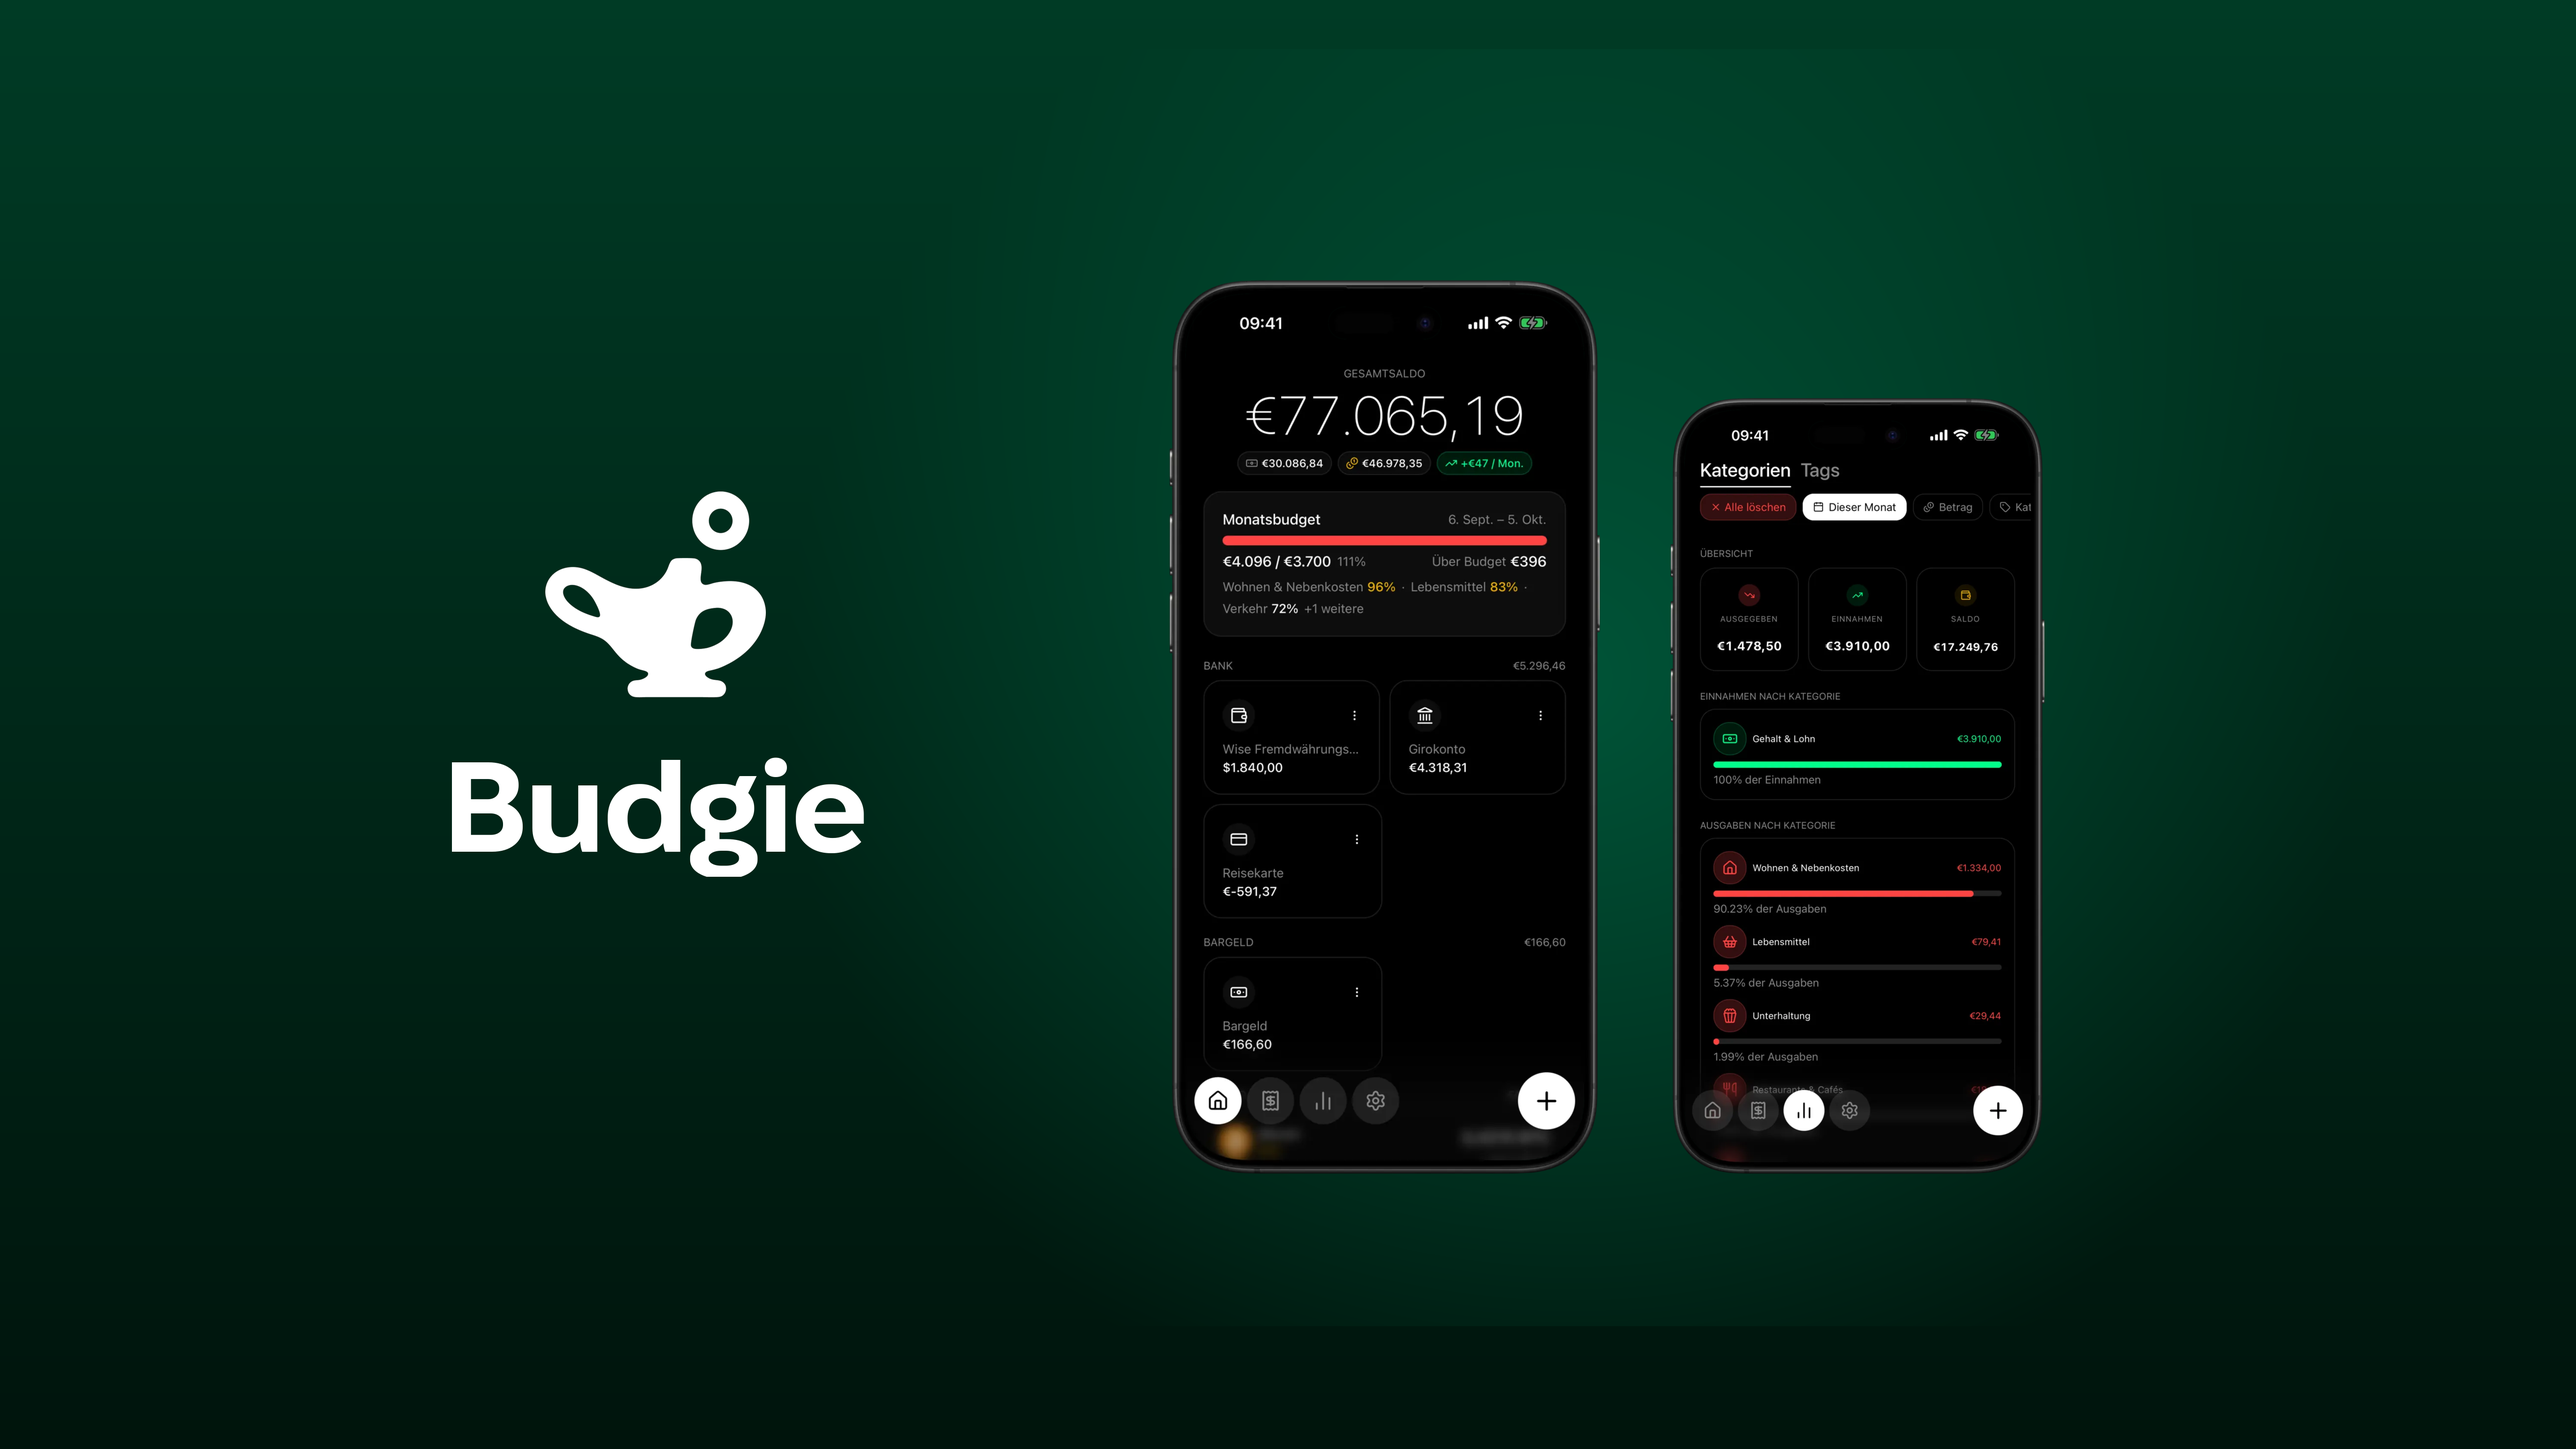
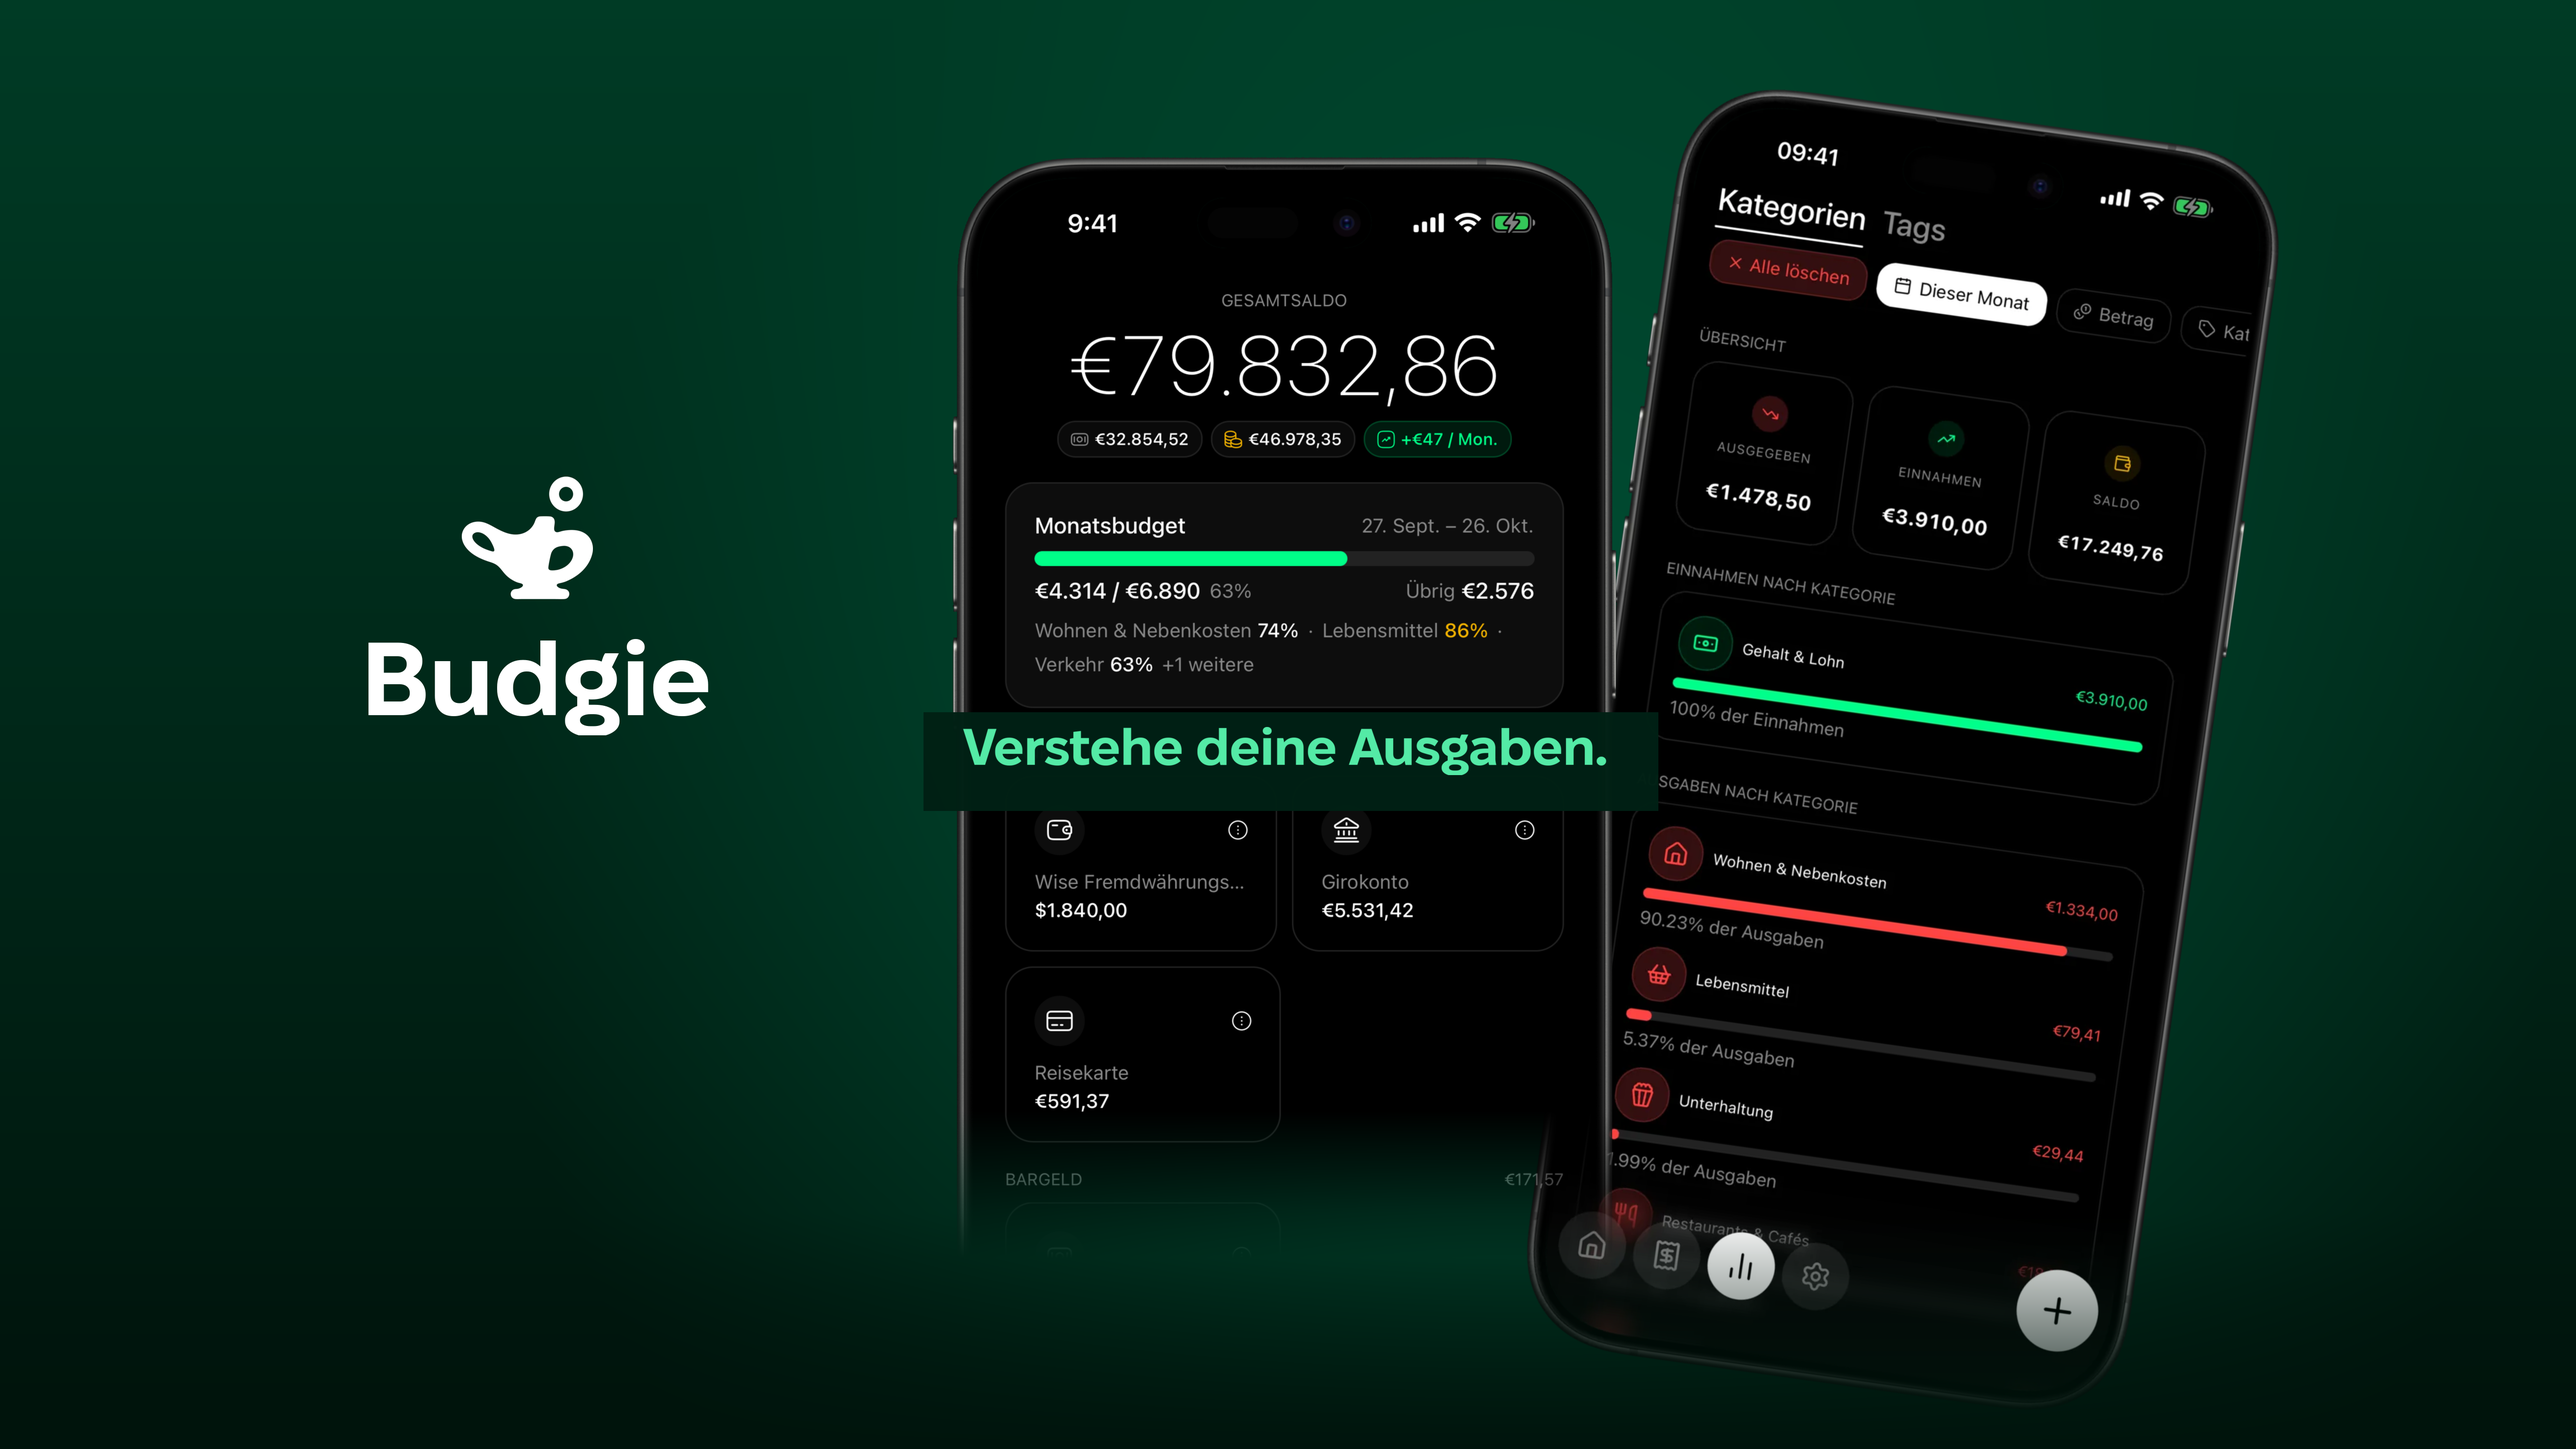
feat(app): header asset v2 with localized headline and healthy hero

diff --git a/packages/app/fastlane/screenshots/MARKETING.md b/packages/app/fastlane/screenshots/MARKETING.md
@@ -78,20 +78,80 @@ Outputs are committed in `marketing/headers/<asc-locale>/` for `en-US`, `de-DE`,
 - `header-universal-5244x2950.png`: usable for both Header and Search Results.
 - `header-3840x1646.png`: dedicated Header alternative; do not use it as Search Results art.
 
-The script uses committed localized, transparent, framed captures from
-`packages/landing/public/media/{net-worth-tracker,spending-analytics}/<app-locale>/dark/`.
-Those were produced with the existing `frame-device.sh` / mobile-ci framing system.
-It reuses the app icon mark, FixelDisplay-Bold, and the screenshot palette
-`#003B25 → #00140C`. No ASO captions are read or changed. The universal composition
-keeps its mark, wordmark and both phones in the central region; the wide export
-uses a center crop. The surrounding canvas allows placement cropping. Review the
-actual device/orientation crops in ASC's Preview tool before approval.
+### Header v2: localized benefits and healthy seed data
 
-Both exports are flattened 8-bit sRGB PNGs with no alpha. Apple's
-[creative specifications](https://developer.apple.com/help/app-store-connect/reference/app-information/creative-assets-specifications)
-accept these exact dimensions. Its [asset guidance](https://developer.apple.com/app-store/asset-best-practices/)
-calls for central focal content, readable artwork, localized text and consistent
-branding. This design adds only the brand wordmark; visible app UI is localized.
+The committed `compose-app-store-headers.sh` generates all ten files without a
+simulator, network access or frame downloads. It extracts the existing framed
+phone from `variants/dark/ios/<asc-locale>/01_iphone_home.png`, removing only the
+connected exterior green background. It never edits the captured UI or its
+numbers. These are fictional showcase fixtures: the English hero has a positive
+**$91,358.63** total balance, a green **62%** budget, and **$2,871 left**. German,
+Spanish and French show **63%**, and Ukrainian **59%**, all with positive balances
+and money remaining. A healthy capture already exists in every locale; no
+Maestro/seed change or macmini recapture is needed for these headers. Raw capture
+directories are absent in this checkout, so the committed screenshot variants
+are the reproducible source rather than untracked raw images.
+
+The secondary phone uses the localized, transparent framed analytics capture in
+`packages/landing/public/media/spending-analytics/<app-locale>/dark/`. Both frames
+come from the existing `frame-device.sh` / mobile-ci system. The home screenshot
+already bleeds off its lower edge; v2 retains that real capture boundary and
+fades its lower tail into the universal background instead of inventing UI or a
+missing bottom bezel. The universal hero is 1350 pixels wide; the rear phone is
+2600 pixels tall and tilted 8 degrees. Together they fill the lower canvas.
+
+The art reuses the app icon mark, FixelDisplay-Bold / FixelDisplay-SemiBold,
+`#54EAA6` highlight and screenshot palette `#003B25 → #00140C`. The localized
+headlines reuse PR [#1691](https://github.com/budgie-at/budgie/pull/1691)'s analytics
+caption voice; the wide layout also carries its offline/no-account/no-subscription
+trust message. No ASO metadata or screenshot captions are changed here.
+
+| Locale | Headline |
+| --- | --- |
+| en-US | See where money goes. |
+| de-DE | Verstehe deine Ausgaben. |
+| es-ES | Descubre en qué gastas. |
+| fr-FR | Comprenez vos dépenses. |
+| uk | Знайте, куди йдуть гроші. |
+
+### Safe areas and independent layouts
+
+Apple's [creative specifications](https://developer.apple.com/help/app-store-connect/reference/app-information/creative-assets-specifications)
+accept both exact export sizes. Both outputs are flattened 8-bit sRGB PNGs with
+three RGB channels and no alpha. The wide PNG is composed independently at
+3840×1646, with two headline lines, a compact brand row, one supporting line and
+individually resized/repositioned phones; it is not a crop of the universal PNG.
+
+The rectangles below were measured from the pixel-layer bounds named **Art Safe
+Area** in Apple's official Photoshop templates downloaded on 2026-10-27. Bounds
+use `(left, top, right, bottom)`, with exclusive right/bottom edges:
+
+| Export | Official template | Safe rectangle | Size |
+| --- | --- | --- | --- |
+| Universal / Search Results | [Universal PSD](https://devimages-cdn.apple.com/design/resources/download/app-store/creative_assets-universal_asset_template-static.psd) | `(1921, 660, 3323, 1622)` | 1402×962 |
+| Wide Header | [Header PSD](https://devimages-cdn.apple.com/design/resources/download/app-store/creative_assets-product_page_header_template-static.psd) | `(1097, 493, 2743, 1154)` | 1646×661 |
+
+These are deliberately tighter than a guessed central 16:9 or 21:9 crop. As
+approved for v2, **the headline, healthy balance amount and green budget card are
+the critical content** kept inside these bounds. Device frames, lower account
+rows, the secondary analytics phone, background glow and the universal brand
+lockup extend outside and may be cropped. This preserves large devices without
+shrinking the entire composition into the small universal safe rectangle.
+
+The universal uses a 1310-pixel maximum headline width at `(1960, 1480)`, a dark
+backing for contrast, and the healthy phone at `(1940, 320)`. The wide uses a
+690-pixel maximum headline line width at `(1125, 670)` / `(1125, 800)` and the
+healthy phone at `(1850, 270)`. Inspecting the safe-rectangle crop at 350 pixels
+wide provides a conservative small-format readability check; it is a local design
+check, not a claim about the precise rendered ASC viewport.
+
+Apple's [asset guidance](https://developer.apple.com/app-store/asset-best-practices/)
+asks for localized, short, legible text and focal content within template safe
+areas. Before approval, use [ASC Preview](https://developer.apple.com/help/app-store-connect/manage-app-information/manage-your-app-store-assets)
+for both Product Page and Search Results, iPhone/iPad, orientations and all five
+languages. Confirm the headline and positive budget remain legible, and that
+cropping only removes decorative device tails. This task did not access ASC,
+upload assets or dispatch workflows; live placement crops remain an owner check.
 
 ## Record and encode app previews
 
@@ -237,3 +297,12 @@ short input; it is not a production preview and is not committed. Offline mock
 checks verified ten header reservations/uploads/commits, idempotent re-runs,
 catalog rejection, preview validation and the version override. Live API behavior,
 App Review acceptance and the macmini recording remain unverified.
+
+Header v2 re-ran the six required repository gates, `pnpm build`,
+`pnpm test --concurrency=2`, `pnpm i18n:check`, selector/shard validation, Bash syntax, metadata budgets,
+store preflight and the existing composition/capture self-tests. ImageMagick
+`identify` and PNG IHDR inspection confirmed all ten exact dimensions and 8-bit
+RGB without alpha; regenerating the final set matched all ten SHA-256 hashes.
+All five universal and wide safe-area crops were visually inspected, including
+small-format headline readability and the Ukrainian glyphs. Existing store
+screenshots and their fictional seed values are unchanged.
